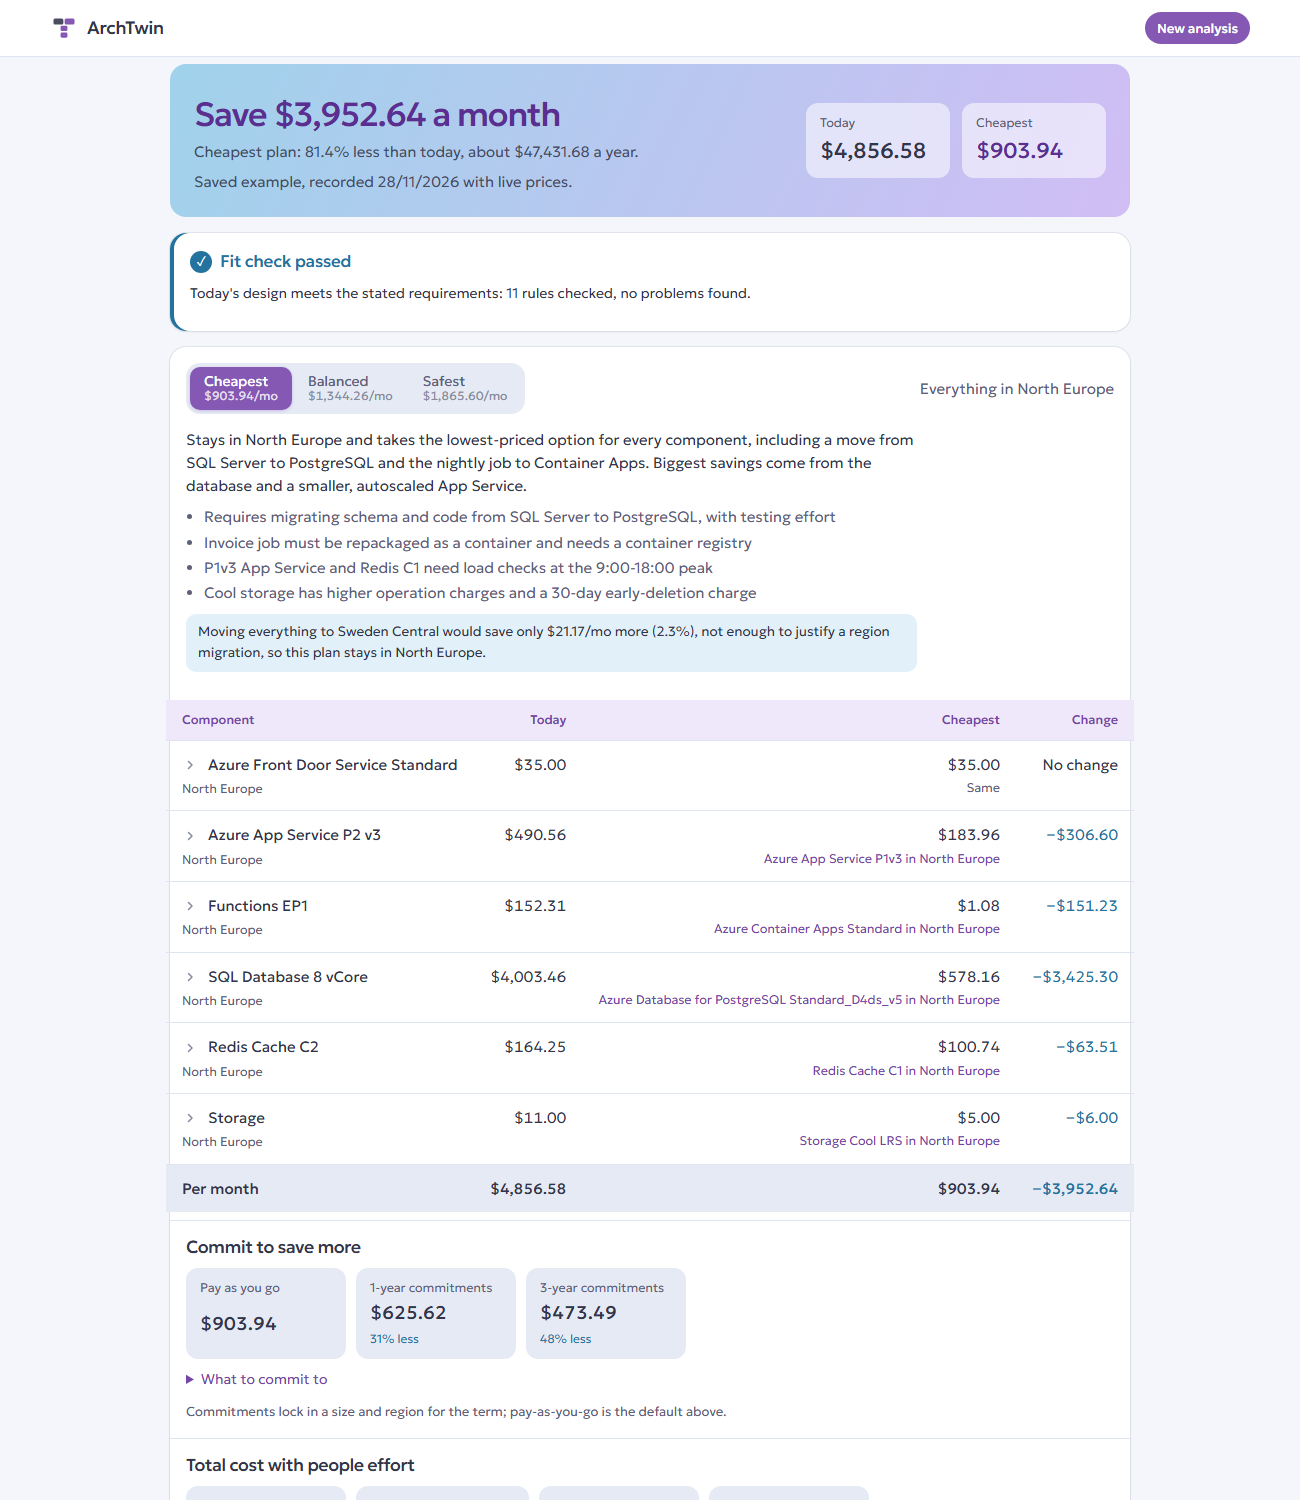
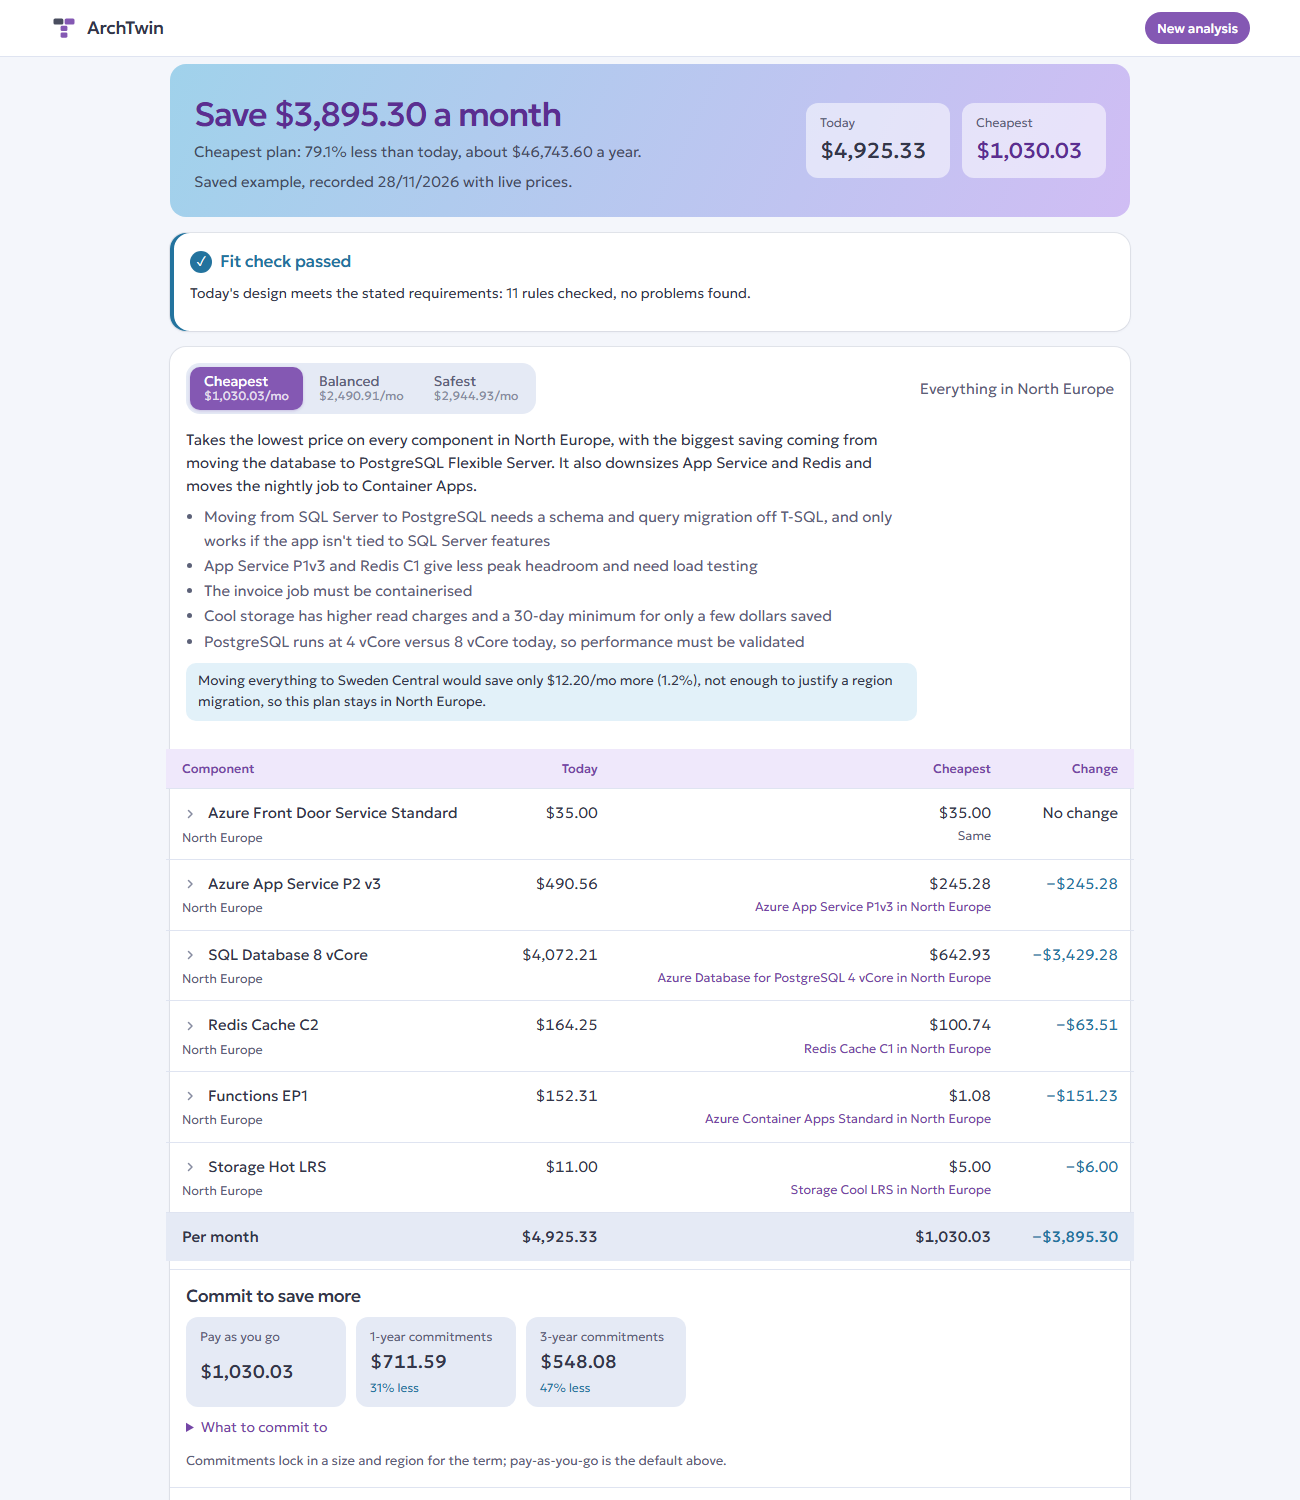
README: storage row in the calculator check, new Contoso figures and screenshot

diff --git a/README.md b/README.md
@@ -16,12 +16,12 @@ Built for SSI's Agent-A-Thon. Read-only by design: it never connects to an Azure
 | Run your own: paste a description or upload a diagram, then watch each agent work. Click "the example text" or "a sample diagram" to start. | ~1 minute, 3 live runs per hour per visitor |
 | Open a result other visitors chose to share (home page, "Recently shared by visitors") | Free, instant |
 
-![Results for the Contoso Bookings diagram: today's $4,857/month vs a $904/month cheapest plan, with per-component prices](docs/results.png)
+![Results for the Contoso Bookings diagram: today's $4,925/month vs a $1,030/month cheapest plan, with per-component prices](docs/results.png)
 
 **Reading the savings.** The Cheapest plan takes the lowest-priced option for every component, which can mean a
 migration (above, SQL Database to PostgreSQL). Balanced and Safest keep more of today's setup: for Contoso, Balanced
-keeps SQL Server on a smaller General Purpose database ($1,344/month, 72% less) and Safest changes only the database
-tier and storage ($1,866/month, 62% less);
+keeps SQL Server on General Purpose with a smaller App Service ($2,491/month, 49% less) and Safest changes only the
+database tier ($2,945/month, 40% less);
 each plan lists its trade-offs, and every rejected alternative is shown with the rule and Microsoft Learn link that
 ruled it out.
 
@@ -59,7 +59,7 @@ plain Python. Each step is its own short HTTP request; the browser keeps the run
 Today's design from both samples was entered by hand into the official
 [Azure Pricing Calculator](https://azure.microsoft.com/pricing/calculator/) on 28 Nov 2026 (USD, pay-as-you-go,
 licences included), and each line compared with ArchTwin's price for it.
-**8 of 10 lines match to the cent; the other 2 are within 0.5%; both totals are within 0.05%.**
+**9 of 11 lines match to the cent; the other 2 are within 0.5%; both totals are within 0.05%.**
 
 | Sample | Component | ArchTwin | Calculator | Difference |
 |---|---|---:|---:|---:|
@@ -72,14 +72,16 @@ licences included), and each line compared with ArchTwin's price for it.
 | | App Service P2 v3 Linux × 2 | $490.56 | $490.56 | 0 |
 | | Functions Premium EP1, 1 always-ready instance | $152.31 | $152.31 | 0 |
 | | SQL Database Business Critical 8 vCore (compute + licence) | $4,003.46 | $4,003.46 | 0 |
+| | SQL Database Business Critical storage, 250 GB | $68.75 | $68.75 | 0 |
 | | Redis Standard C2 | $164.25 | $163.52 | +0.45% |
 | | Blob Storage Hot LRS, 500 GB | $11.00 | $11.00 | 0 |
-| | **Total** | **$4,856.58** | **$4,855.85** | **+0.02%** |
+| | **Total** | **$4,925.33** | **$4,924.60** | **+0.01%** |
 
 - **Redis:** the Retail Prices API returns $0.555/hour for P1 and $0.225/hour for C2; the calculator uses $0.554 and $0.224.
-- **Not priced by ArchTwin** (usage the input doesn't state, so it's left out rather than guessed): SQL Database
-  storage (for Contoso's 250 GB on Business Critical, about $69/month at $0.275/GB, ~1.4% of the bill), Front Door
-  and blob traffic and operations, and VM OS disks. The calculator adds these from its defaults when you fill them in.
+- **Database storage** is priced when the input states a size (SQL Database General Purpose / Business Critical,
+  PostgreSQL and MySQL Flexible Server, doubled for an HA standby). The AKS sample states none, so none is priced.
+- **Not priced by ArchTwin** (usage the input doesn't state, so it's left out rather than guessed): Front Door and blob
+  traffic and operations, and VM OS disks. The calculator adds these from its defaults when you fill them in.
 - **To repeat the check:** the calculator pre-selects 3-year reservations and Azure Hybrid Benefit for some products
   (SQL Database, for one); switch them to pay-as-you-go to compare with "today" prices.
 
